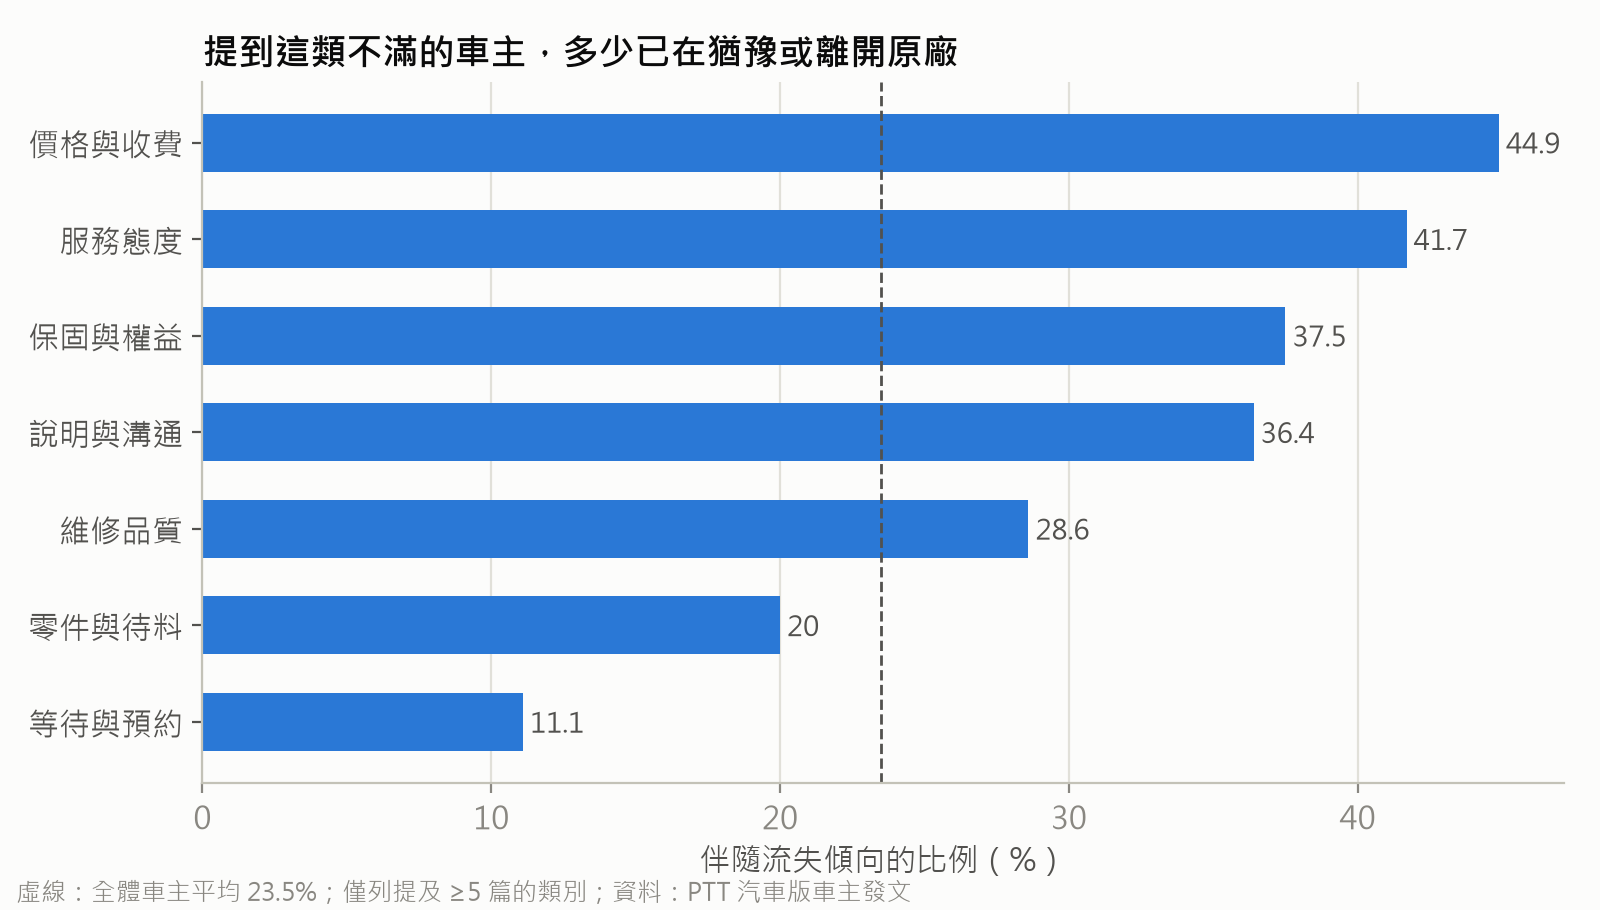
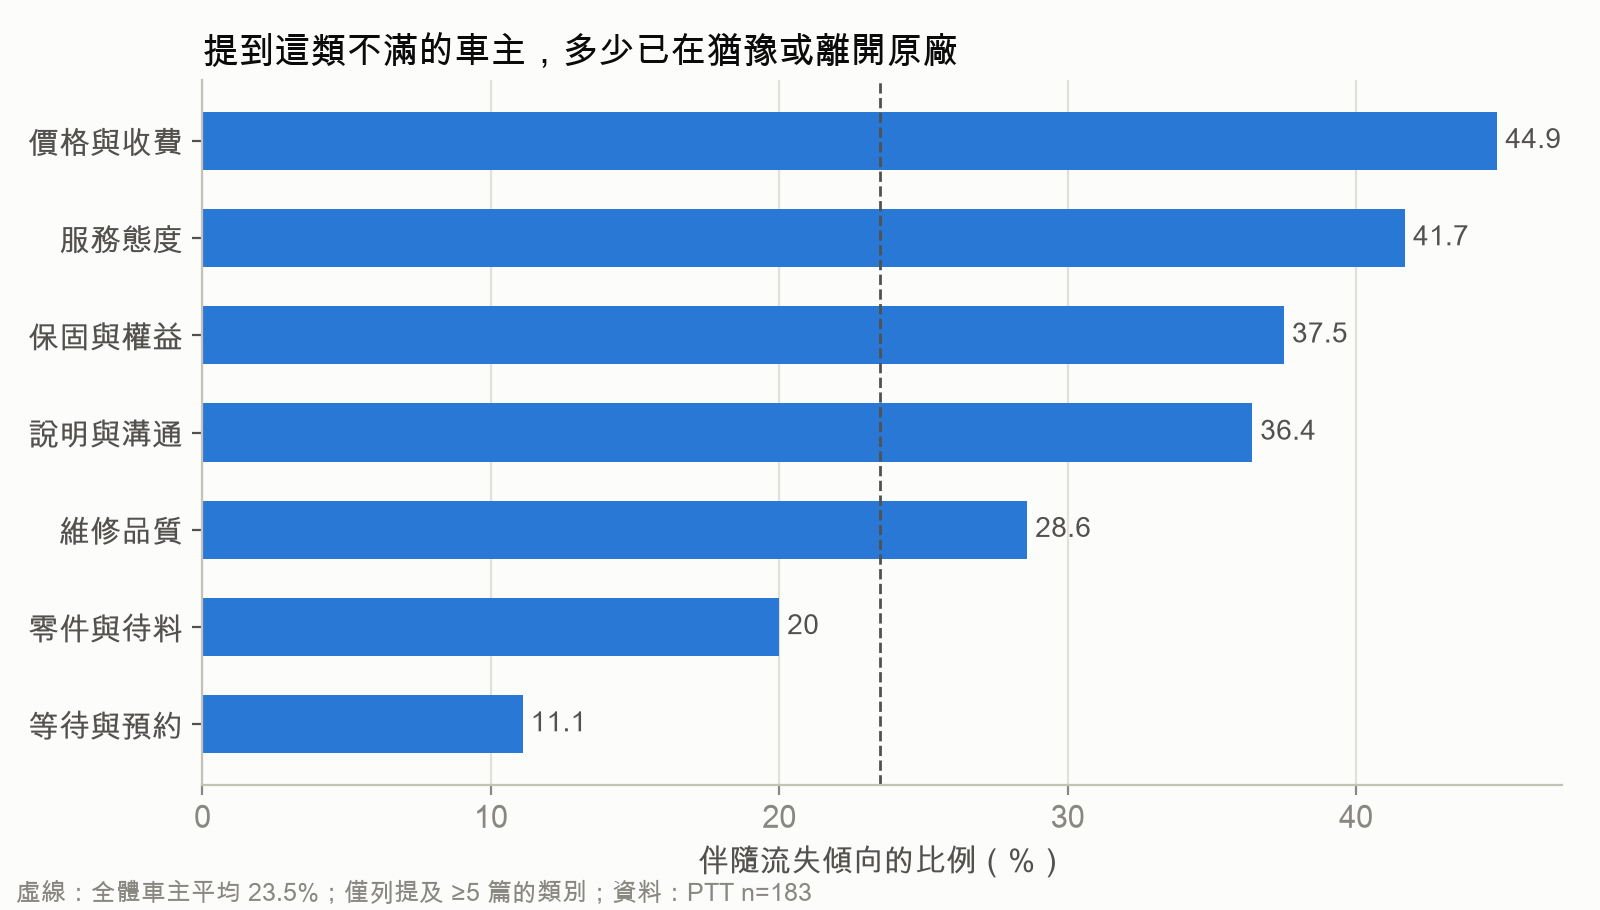
fix(analyze): filter quotes to negative relevant posts, dynamic source notes, CJK font order
Claude-Session: https://claude.ai/code/session_014phDNKkxwY4Ra9WrNzBh3K

diff --git a/lexus_kit/analyze.py b/lexus_kit/analyze.py
@@ -33,8 +33,8 @@ INK, INK2, MUTED, GRID, AXIS = "#0b0b0b", "#52514e", "#898781", "#e1e0d9", "#c3c
 import logging
 from matplotlib import font_manager
 logging.getLogger("matplotlib.font_manager").setLevel(logging.ERROR)
-_CJK = ["Microsoft JhengHei", "PingFang TC", "Noto Sans CJK TC", "Noto Sans CJK JP", "Heiti TC",
-        "Microsoft YaHei", "Arial Unicode MS"]
+_CJK = ["Microsoft JhengHei", "Arial Unicode MS", "Hiragino Sans GB", "Hiragino Sans",
+        "Heiti TC", "PingFang TC", "Noto Sans CJK TC", "Noto Sans CJK JP", "Microsoft YaHei"]
 _have = {f.name for f in font_manager.fontManager.ttflist}
 _fonts = [f for f in _CJK if f in _have] or ["sans-serif"]
 if _fonts == ["sans-serif"]:
@@ -109,6 +109,14 @@ def pct(a, b):
     return round(100 * a / b, 1) if b else 0.0
 
 
+def source_note(data, prefix="資料"):
+    """依圖表實際使用的文章列，列出各資料來源篇數。"""
+    if data.empty or "source" not in data:
+        return f"{prefix}：來源不明 n=0"
+    counts = data["source"].fillna("來源不明").replace("", "來源不明").value_counts()
+    return f"{prefix}：" + "、".join(f"{name} n={count}" for name, count in counts.items())
+
+
 def save_bar_h(df, value_col, label_col, path, title, xlabel, color=BLUE, note=None, ref=None, ref_label=None):
     d = df.sort_values(value_col)
     fig, ax = plt.subplots(figsize=(8, 0.45 * len(d) + 1.4))
@@ -146,6 +154,7 @@ def main():
     lines += [
         "## 資料總覽",
         f"- 標註文章總數：{len(df)}",
+        f"- 資料來源：" + "、".join(f"{name} {count} 篇" for name, count in df["source"].fillna("來源不明").replace("", "來源不明").value_counts().items()),
         f"- 實質討論 Lexus 售後（relevant）：{len(rel)} 篇（{pct(len(rel), len(df))}%）",
         f"- 其中發文者為車主：{len(owners)} 篇",
         f"- 涉及經銷商信任問題：{int(df['dealer_trust_issue'].fillna(False).sum())} 篇",
@@ -172,9 +181,10 @@ def main():
         if "原廠" in t1:
             d = t1.reset_index()[["類別", "原廠"]].rename(columns={"原廠": "篇數"})
             d = d[(d["篇數"] > 0) & (d["類別"] != "其他")]
+            chart_data = rel[rel["experience_at"].isin(["原廠", "兩者都有"])]
             save_bar_h(d, "篇數", "類別", O("chart_1_pain_at_dealer.png"),
                        "原廠保養維修：車主最常抱怨什麼", "提及篇數",
-                       note=f"資料：PTT 汽車版，經驗發生在原廠的相關文章 n={int(loc_counts.get('原廠', 0) + loc_counts.get('兩者都有', 0))}")
+                       note=source_note(chart_data))
 
     # ---- 2. 流失驅動因素 ----
     base = owners
@@ -203,7 +213,7 @@ def main():
         if len(ok_chart):
             save_bar_h(ok_chart, "流失傾向比例%", "類別", O("chart_2_churn_drivers.png"),
                        "提到這類不滿的車主，多少已在猶豫或離開原廠", "伴隨流失傾向的比例（%）",
-                       note=f"僅列提及 ≥{MIN_N} 篇的類別；資料：PTT 汽車版車主發文",
+                       note=f"僅列提及 ≥{MIN_N} 篇的類別；{source_note(base)}",
                        ref=round(100 * risk_rate, 1), ref_label=f"全體車主平均 {round(100 * risk_rate, 1)}%")
 
     # ---- 3. 推文心聲 ----
@@ -232,6 +242,7 @@ def main():
         ax.yaxis.grid(True, color=GRID, linewidth=0.8)
         ax.set_axisbelow(True)
         ax.set_ylim(0, max(d["流失傾向比例%"].max() * 1.3, 10))
+        fig.text(0.01, 0.01, source_note(owners[owners["age_band"].isin(known.index)]), color=MUTED, fontsize=9)
         fig.tight_layout()
         fig.savefig(O("chart_3_risk_by_age.png"), dpi=200)
         plt.close(fig)
@@ -262,6 +273,7 @@ def main():
         ax.yaxis.grid(True, color=GRID, linewidth=0.8)
         ax.set_axisbelow(True)
         ax.set_ylim(0, max(pt["流失傾向比例%"].max() * 1.35, 10))
+        fig.text(0.01, 0.01, source_note(owners[owners["purchase_type"].isin(["新車", "二手"])]), color=MUTED, fontsize=9)
         fig.tight_layout()
         fig.savefig(O("chart_5_new_vs_used.png"), dpi=200)
         plt.close(fig)
@@ -287,6 +299,7 @@ def main():
         ax.set_axisbelow(True)
         ax.set_ylim(bottom=0)
         plt.setp(ax.get_xticklabels(), rotation=45, ha="right")
+        fig.text(0.01, 0.01, source_note(m), color=MUTED, fontsize=9)
         fig.tight_layout()
         fig.savefig(O("chart_4_quarterly.png"), dpi=200)
         plt.close(fig)
@@ -294,7 +307,9 @@ def main():
     # ---- 7. 代表性原文 ----
     qs = []
     for cat in pain_all.index:
-        sub = rel[rel["all_cats"].apply(lambda l: cat in l)].sort_values("n_comments", ascending=False)
+        sub = rel[(rel["sentiment"] == "負面") & (rel["relevant"] == True) &
+                  rel["all_cats"].apply(lambda l: cat in l) &
+                  rel["evidence_quote"].fillna("").astype(str).str.strip().ne("")].sort_values("n_comments", ascending=False)
         for _, r in sub.head(5).iterrows():
             qs.append({"類別": cat, "原文": r.get("evidence_quote", ""), "標題": r.get("title", ""),
                        "立場": r.get("stance_to_dealer", ""), "地點": r.get("experience_at", ""),

diff --git a/tasks/T-101.result.md b/tasks/T-101.result.md
@@ -1,0 +1,35 @@
+# T-101 執行結果
+
+## 變更檔案
+- `lexus_kit/analyze.py`：代表引文僅保留負面、相關且有非空 `evidence_quote` 的文章；來源註腳依該圖使用的資料列按 `source` 分組計數；摘要新增資料來源統計；調整中文字型候選順序，找不到候選中文字型時仍會明確提醒。
+- `lexus_kit/out/`：依腳本重產報表。其餘統計輸出與修改前相同；`07_quotes.csv` 依新篩選條件更新，圖表註腳依來源更新。
+
+## 驗收
+
+指令：
+```bash
+cd lexus_kit && source .venv/bin/activate
+python analyze.py
+```
+
+結果：成功完成，無例外。輸出摘要主要數字：標註文章 1589、相關文章 312（19.6%）、車主發文 183、經銷商信任問題 107；資料來源為 PTT 1589 篇。執行時 Matplotlib 提示 `/Users/ino/.matplotlib` 不可寫，改用暫存快取目錄，未影響分析及圖表產出。
+
+`07_quotes.csv` 對回 `data/labels_categorized.jsonl`：41 列全部有對應記錄，全部為負面、relevant 且 `evidence_quote` 非空；各類最多 5 則（價格與收費、維修品質、其他、等待與預約、服務態度、說明與溝通、保固與權益各 5 則；其餘類別 1–4 則）。錯誤 0。
+
+修改前後數值核對：`01`–`06` 與 `08` CSV 全部相同（各檔 `.equals()` 為 True）。摘要 diff 如下，只有新增資料來源行：
+
+```diff
+--- before/summary.md
++++ out/summary.md
+@@ -2,6 +2,7 @@
+ ## 資料總覽
+ - 標註文章總數：1589
++- 資料來源：PTT 1589 篇
+ - 實質討論 Lexus 售後（relevant）：312 篇（19.6%）
+```
+
+已用 Read 檢視 `chart_1_pain_at_dealer.png`：中文字形正常，無方框；註腳顯示「資料：PTT n=190」。中文字型候選字型中有可用的 `Arial Unicode MS`、`Hiragino Sans` 等，PingFang 不再排在優先位置。
+
+## 未完成或疑慮
+- 驗收要求的圖表目視檢查已確認 `chart_1_pain_at_dealer.png` 無缺字；其餘圖表由相同字型設定生成，未逐張目視檢查。
+- Matplotlib 使用暫存快取目錄的提示是環境寫入權限設定，不影響本次成功產出。

diff --git a/tasks/T-101.md b/tasks/T-101.md
@@ -1,0 +1,22 @@
+# T-101 修資料品質（analyze.py）
+
+分支：fix/data-quality。只改 `lexus_kit/analyze.py`，以及重產 `lexus_kit/out/`。不要執行任何 git 指令。
+
+## 目標
+1. `07_quotes.csv`：只挑 `sentiment == "負面"` 且 `relevant == True` 的文章；每個類別最多 5 則，依 `n_comments` 由大到小。其餘欄位不變。`evidence_quote` 為空的列也略過。
+2. 所有圖表註腳與 `summary.md` 不再寫死「PTT 汽車版」。依資料的 `source` 欄位動態產生，例如「資料：PTT n=…、Mobile01 n=…」（n 為該圖所用的文章數，按 source 拆開）。`summary.md` 的「資料總覽」新增「資料來源：PTT 1589 篇、…」一行。目前資料只有 PTT，輸出文字要自然（單一來源就只寫一個）。
+3. 圖表中文字型在 macOS 不得出現方框。目前 `_CJK` 清單雖含 PingFang TC，請實際檢查 `chart_*.png`（用 Read 看圖或 matplotlib 檢查 glyph）；若 PingFang 的 ttc 無法渲染，改用其他可用字型（Heiti TC、Hiragino Sans GB、Arial Unicode MS 等），並讓找不到字型時明確警告。
+4. 其他統計邏輯不得改動。
+
+## 驗收
+```bash
+cd lexus_kit && source .venv/bin/activate
+python analyze.py
+```
+- 成功執行，無例外。
+- `out/07_quotes.csv`：`標題`/`連結` 對回 `data/labels_categorized.jsonl`，全部為負面且 relevant；每類 ≤ 5。（寫一段臨時檢查腳本放 /tmp 之外的 scratch 也可，但不要留在 repo。）
+- `out/summary.md` 與修改前相比，只有「資料來源」新增行與圖表註腳不同；所有數字一致。修改前的備份在 `/private/tmp/claude-501/-Users-ino-dev-hackathon-2610/acf7d201-0cd0-4b15-8b48-64669589c0af/scratchpad/out_before/`，用 diff 比對並貼進結果檔。
+- 圖表中文無方框。
+
+## 結果檔
+寫到 `tasks/T-101.result.md`：改了哪些檔案、驗收指令與輸出、未完成或有疑慮的地方。

diff --git a/lexus_kit/out/summary.md b/lexus_kit/out/summary.md
@@ -2,6 +2,7 @@
 
 ## 資料總覽
 - 標註文章總數：1589
+- 資料來源：PTT 1589 篇
 - 實質討論 Lexus 售後（relevant）：312 篇（19.6%）
 - 其中發文者為車主：183 篇
 - 涉及經銷商信任問題：107 篇
